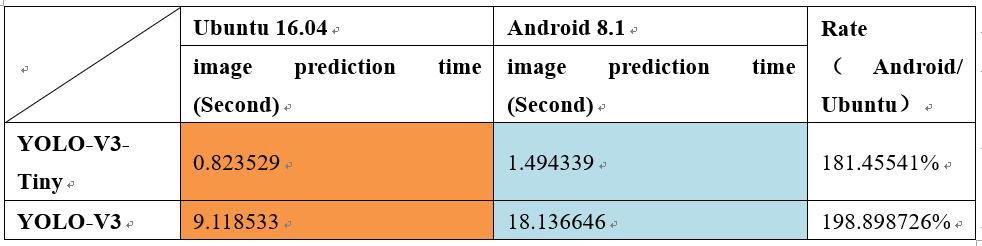
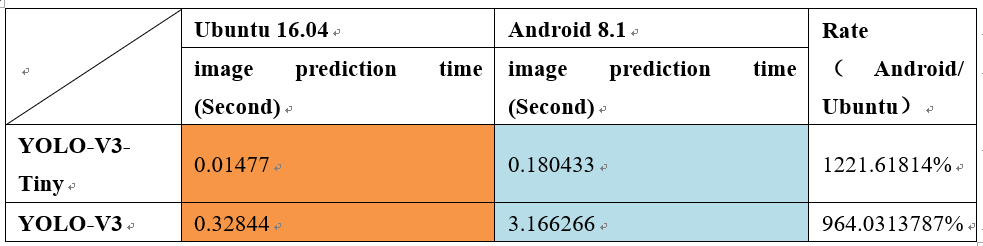
update

diff --git a/introduction/Performance.md b/introduction/Performance.md
@@ -221,6 +221,8 @@ To better represent the actual image prediction time, a comparison between Group
 
 ![](img/85.png)
 
+- **For GPU versions, the actual image prediction time used by Darknet-Cross on Android 8.1 (Adreno 630 GPU) is approximately 10 times that of Ubuntu 16.04 (NVIDIA GTX1070 GPU)**
+
 
 
 
